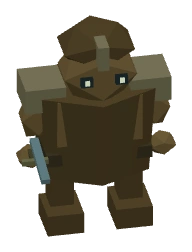
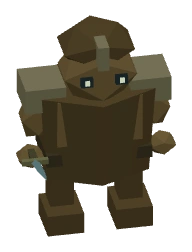
Sharpen hero daggers and enemy swords, and refresh matching portraits

Changed region(s): [[0.1562, 0.5278, 0.2812, 0.75]]

diff --git a/src/models.js b/src/models.js
@@ -301,18 +301,21 @@ function fillClassicWieldedWeapon(grip, weapon = null) {
     return grip;
   }
   if (type === "dagger" || id === 31) {
-    // Dagger-length, but a flat edge. Local X stays horizontal under the
-    // overhead camera, so that axis is the sharp side, not a brick.
-    // Bright edge so the thin blade still reads under dungeon ambient light.
-    const steel = { metalness: 0.4, roughness: 0.3, emissive: 0xc5d0d4, emissiveIntensity: 0.7 };
-    const blade = box(grip, 0xeef3f5, 0, 0.2, 0, 0.022, 0.34, 0.056, steel);
+    // One solid from the guard to the point. Separate box tips left a blunt,
+    // stepped end beyond the faceted blade. X remains the thin overhead edge.
+    const steel = { metalness: 0.4, roughness: 0.3, emissive: 0xc5d0d4, emissiveIntensity: 0.12 };
+    const blade = pointedBlade(grip, 0xe2eaf0, 0, 0.03, 0, 0.022, 0.45, 0.056, steel, 0, true);
     blade.name = "dagger-blade";
-    const tip = box(grip, 0xf7fbfc, 0, 0.4, 0, 0.014, 0.08, 0.028, steel);
+    const tip = new THREE.Object3D();
     tip.name = "dagger-tip";
-    box(grip, 0xffffff, 0, 0.46, 0, 0.008, 0.045, 0.014, steel);
+    tip.position.y = 1;
+    blade.add(tip);
     const guard = box(grip, 0xddba70, 0, 0.02, 0, 0.11, 0.018, 0.032, metal);
     guard.name = "dagger-guard";
     box(grip, 0x463e32, 0, -0.07, 0, 0.028, 0.13, 0.032, haft);
+    const gem = geometry("dagger-small-gem", () => new THREE.TetrahedronGeometry(1));
+    markDetail(mesh(grip, gem, mat(0xbda06c, { metalness: .6 }), 0, -.15, 0, .03, .03, .03));
+    markDetail(mesh(grip, gem, mat(0x5b8998, { emissive: 0x5b8998, emissiveIntensity: .2 }), 0, -.15, -.025, .015, .015, .015));
     return grip;
   }
   if (type === "spear" || id === 30) {
@@ -387,15 +390,7 @@ export function fillWieldedWeapon(pivot, weapon = {}) {
   if (type !== "sword") {
     fillClassicWieldedWeapon(pivot, weapon);
     pivot.userData.weaponModel=type;
-    pivot.userData.bladeLength=type === "dagger" ? .5 : 0; pivot.userData.bladeBend=0;
-    if (type === "dagger") {
-      const blade=pivot.getObjectByName("dagger-blade");
-      if (blade) { blade.geometry=detailedBladeGeometry(0,true); blade.position.y=.03; }
-      // Faceting and small grip details keep the latest thin dagger silhouette.
-      const gem=geometry("dagger-small-gem",()=>new THREE.TetrahedronGeometry(1));
-      markDetail(mesh(pivot,gem,mat(0xbda06c,{metalness:.6}),0,-.15,0,.03,.03,.03));
-      markDetail(mesh(pivot,gem,mat(0x5b8998,{emissive:0x5b8998,emissiveIntensity:.2}),0,-.15,-.025,.015,.015,.015));
-    }
+    pivot.userData.bladeLength=type === "dagger" ? .48 : 0; pivot.userData.bladeBend=0;
     return pivot;
   }
   equipHero({ getObjectByName: () => pivot }, weapon);
@@ -636,16 +631,24 @@ export function hero(character = "Adventurer") {
 function detailedBladeGeometry(bend = 0, simple = false) {
   return geometry(`blade:${bend}:${simple}`, () => {
     const positions = [], uvs = [];
-    const stations = simple ? [[0,.55],[.72,.8],[1,0]] : [[0, .55], [.12, 1], [.72, .8], [.9, .46], [1, 0]];
+    const stations = simple ? [[0, 1], [.55, .78], [.82, .38], [1, 0]] : [[0, .55], [.12, 1], [.72, .8], [.9, .46], [1, 0]];
     const corners = [[-1, 0], [0, 1], [1, 0], [0, -1]];
     const vertex = (station, corner) => {
       const [y, width] = stations[station], [x, z] = corners[corner % 4];
-      positions.push(x * width / 2 + bend * y * y, y, z * (1 - y * .25) / 2 * (station === stations.length - 1 ? 0 : 1));
+      positions.push(x * width / 2 + bend * y * y, y, z * width / 2);
       uvs.push(corner / 4, y);
     };
     for (let i = 0; i < stations.length - 1; i++) for (let j = 0; j < 4; j++) {
       vertex(i, j); vertex(i, j + 1); vertex(i + 1, j);
-      vertex(i, j + 1); vertex(i + 1, j + 1); vertex(i + 1, j);
+      // All four ridges meet at one point; a second triangle here would have
+      // two identical tip vertices and no area.
+      if (i < stations.length - 2) {
+        vertex(i, j + 1); vertex(i + 1, j + 1); vertex(i + 1, j);
+      }
+    }
+    for (let j = 0; j < 4; j++) {
+      positions.push(0, 0, 0); uvs.push(.5, 0);
+      vertex(0, j + 1); vertex(0, j);
     }
     const result = new THREE.BufferGeometry();
     result.setAttribute("position", new THREE.Float32BufferAttribute(positions, 3));
@@ -655,9 +658,14 @@ function detailedBladeGeometry(bend = 0, simple = false) {
   });
 }
 
+/** Closed diamond section with thin cutting edges and a single tapered tip. */
+export function pointedBlade(group, color, x, y, z, width, length, thickness, extra, bend = 0, simple = false) {
+  return mesh(group, detailedBladeGeometry(bend, simple), mat(color, extra), x, y, z, width, length, thickness);
+}
+
 function detailedBlade(group, style) {
   const metal = { metalness: .85, roughness: .23 };
-  mesh(group, detailedBladeGeometry(style.bend), mat(style.steel, metal), 0, .055, 0, style.width, style.length, .036);
+  pointedBlade(group, style.steel, 0, .055, 0, style.width, style.length, .036, metal, style.bend);
   // The fuller and faceted section make the edge readable at gameplay scale.
   box(group, 0x758e9d, 0, style.length * .37 + .09, -.018, .014, style.length * .57, .006, { metalness: .8, roughness: .34 });
   box(group, style.gold, 0, .027, 0, .115, .066, .085, { metalness: .72, roughness: .3 });

diff --git a/src/creatures.js b/src/creatures.js
@@ -1,5 +1,5 @@
 import * as THREE from "three";
-import { box, orb, cone, cylinder, tapered, mat } from "./models.js";
+import { box, orb, cone, cylinder, tapered, pointedBlade, mat } from "./models.js";
 import { matBasic } from "./materials.js";
 import { compact, featherContact } from "./graphics-utils.js";
 
@@ -266,8 +266,8 @@ function build(definition) {
     if ([3,6,26,51].includes(id)) {
       const hand = body.getObjectByName("arm-1");
       rod(hand,0x796342,[.035,-.27,-.035],[.035,-.27,-.14],.035);
-      const blade=box(hand,id===26?0xb6c9b4:0xa5b8ba,.035,-.19,-.275,.042,.028,.3);
-      blade.rotation.x=-.22;
+      const blade=pointedBlade(hand,id===26?0xb6c9b4:0xa5b8ba,.035,-.265,-.155,.042,.3,.028,undefined,0,true);
+      blade.rotation.x=-Math.PI/2+.22;
       box(hand,0xb29b67,.035,-.265,-.155,.13,.025,.028);
     }
   } else if (["beast", "dragon", "centaur"].includes(family)) {

diff --git a/docs/GRAPHICS.md b/docs/GRAPHICS.md
@@ -79,6 +79,14 @@ Run `node scripts/visual-characters.mjs` against the development server to regen
 
 [Front views of all enemies](screenshots/creatures-front.png) · [Back views of all enemies](screenshots/creatures-back.png) · [Player front views](screenshots/heroes-front.png) · [Player back views](screenshots/heroes-back.png) · [In the caves](screenshots/characters-desktop.png) · [On a phone](screenshots/characters-mobile.png)
 
+### Blade review — October 9, 2026
+
+All eight classes and 66 creatures were reviewed from front, back and gameplay views. The Adventurer and Rogue starting dagger now uses one closed, faceted blade that narrows continuously to a single point. The two old rectangular tip pieces are removed, its glow is lower so the bevels remain visible, and its trail endpoint matches the blade. Hobgoblin, orc, enemy elf and xvart swords use the same pointed geometry instead of flat-ended boxes. Sword variants also taper their thickness toward the point and close their bases without collapsed tip triangles. The affected class and creature portraits were regenerated; class equipment, animation and geometry budgets remain intact.
+
+Validation: 21 model, cast, motion and stability unit checks; eight browser checks covering all classes, all creatures, blade variants, swapping, combat and reduced motion; production build. `node scripts/visual-swords.mjs` now includes the actual starting grips, a six-character blade review and an Adventurer close-up, as well as all seven blade variants and desktop/mobile combat. `SWORD_OUTPUT` selects a capture folder.
+
+[Adventurer blade close-up](screenshots/adventurer-blade.png) · [Affected characters](screenshots/blade-tip-review.png)
+
 Creature info cards use cached transparent portraits rendered from the same exact-ID rigs in `src/creatures.js`, with Balanced cave lighting. All 66 portraits live in `public/art/creatures/`; run `TEST_URL=http://localhost:5173 node scripts/render-creature-portraits.mjs` after changing creature appearance. Cards load these local images without starting an additional WebGL renderer. Hidden creatures and unidentified mimics retain their existing visibility rules. `tests/monster-hover-card.spec.js` checks complete portrait coverage, transparency, distinct species images and card visibility.
 
 ## Graphics boost and latency in 1.3.64
